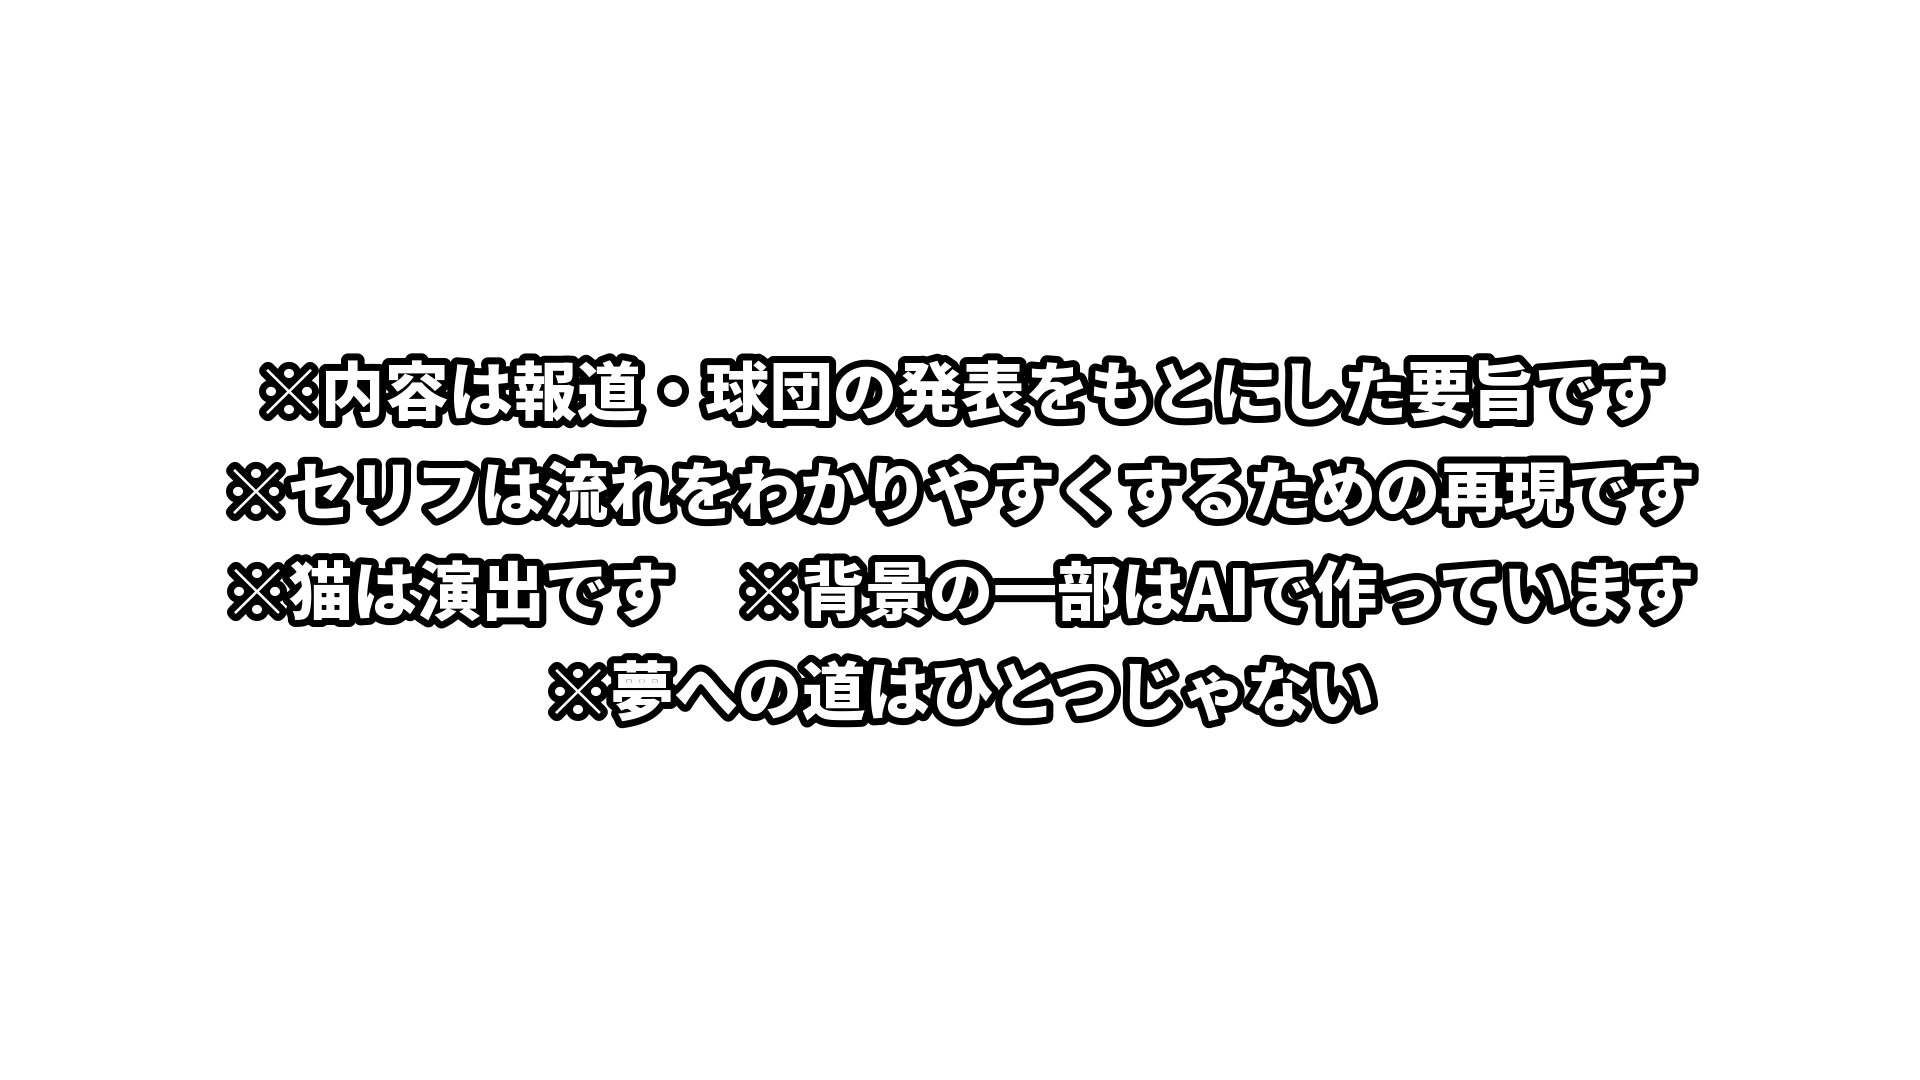
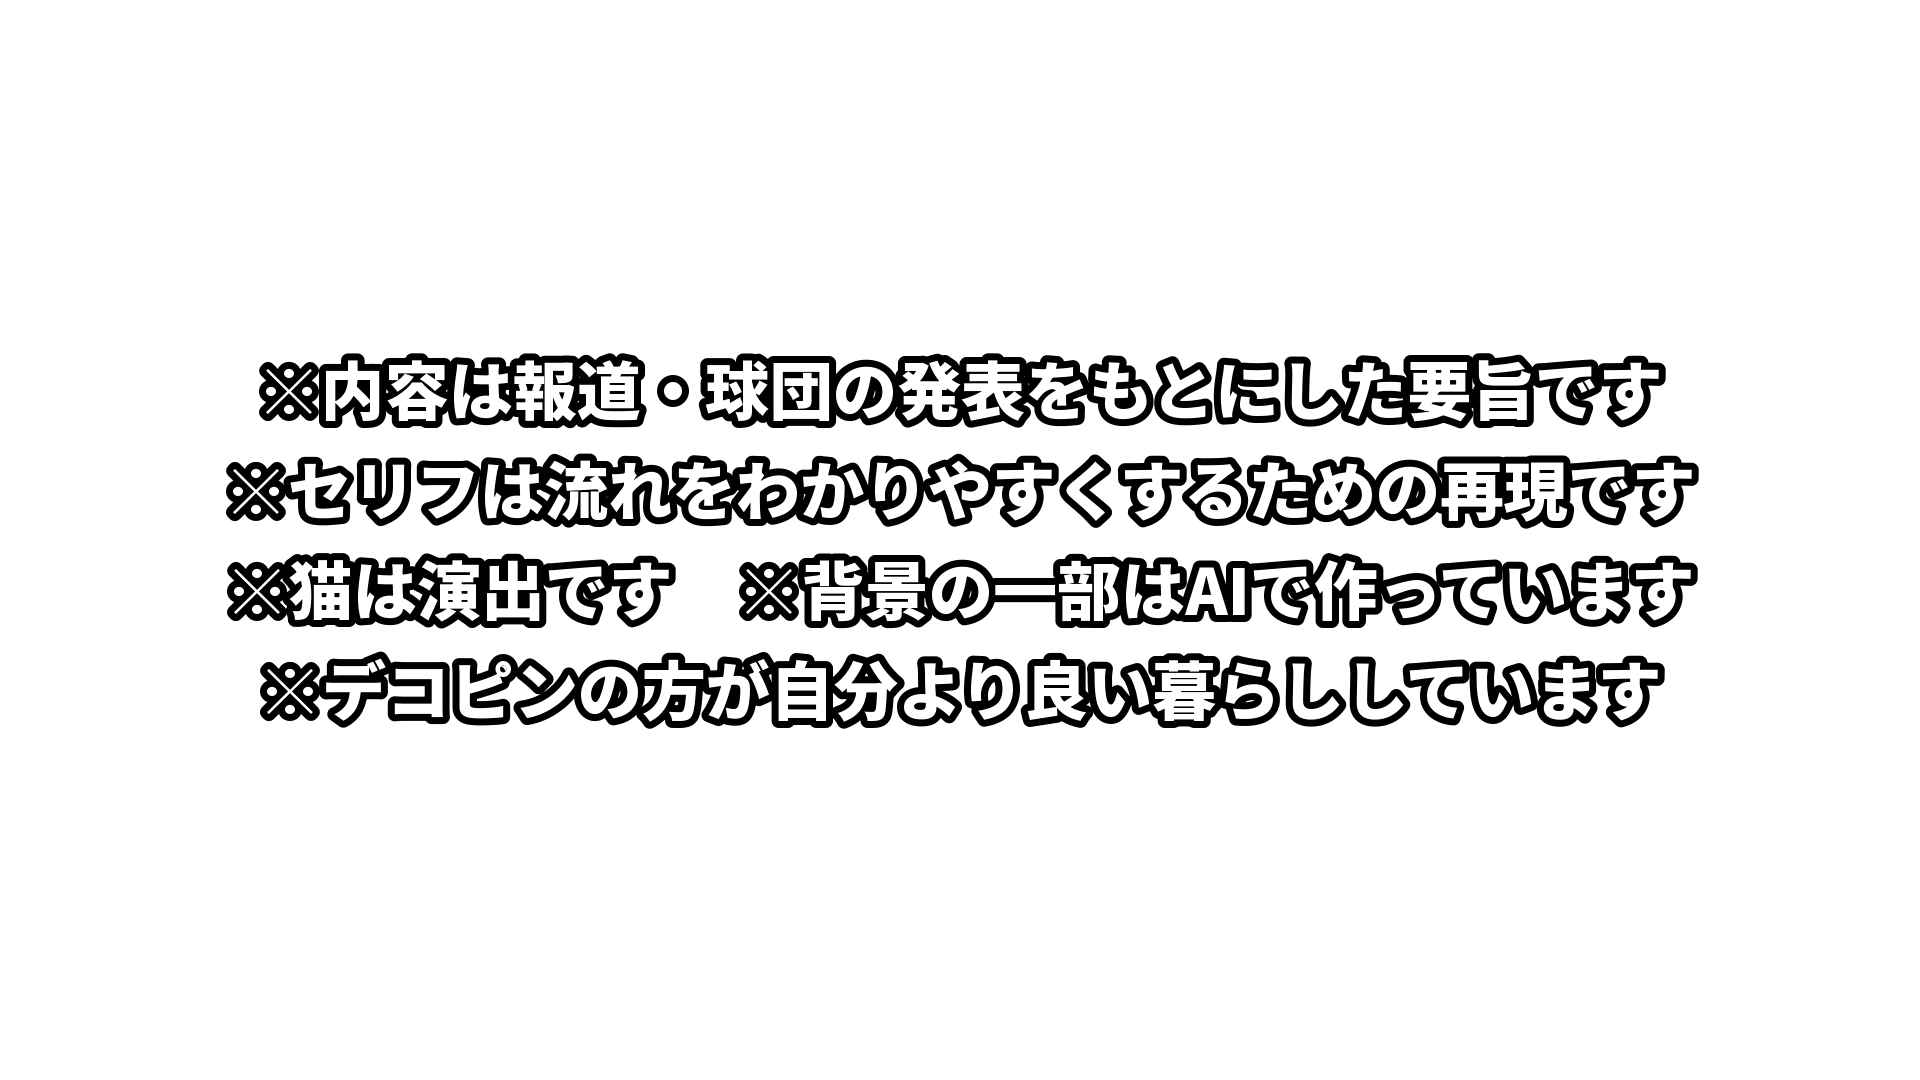
大谷翔平：今日の一言を「※デコピンの方が自分より良い暮らししています」に
Claude-Session: https://claude.ai/code/session_011g9CsrfFD5YswfNSvNDW39

Changed region(s): [[0.125, 0.5806, 0.875, 0.6722]]

diff --git a/catmeme/make_parts_30_ohtani.py b/catmeme/make_parts_30_ohtani.py
@@ -11,7 +11,7 @@ import parts as P
 HERE = os.path.dirname(os.path.abspath(__file__))
 OUT = os.path.join(HERE, "parts", "30_ohtani")
 PREV = os.path.join(OUT, "preview")
-TODAY = "※夢への道はひとつじゃない"   # 今日の一言（仮・ユーザーの指定があれば差しかえる）
+TODAY = "※デコピンの方が自分より良い暮らししています"   # 今日の一言（10/30 ユーザー指定）
 
 ITEMS = {
     "e01_title": P.message(["メジャー直行宣言から", "日本ハム入団まで"], sub="2012年　大谷翔平と「強行指名」の舞台裏", size=92),
